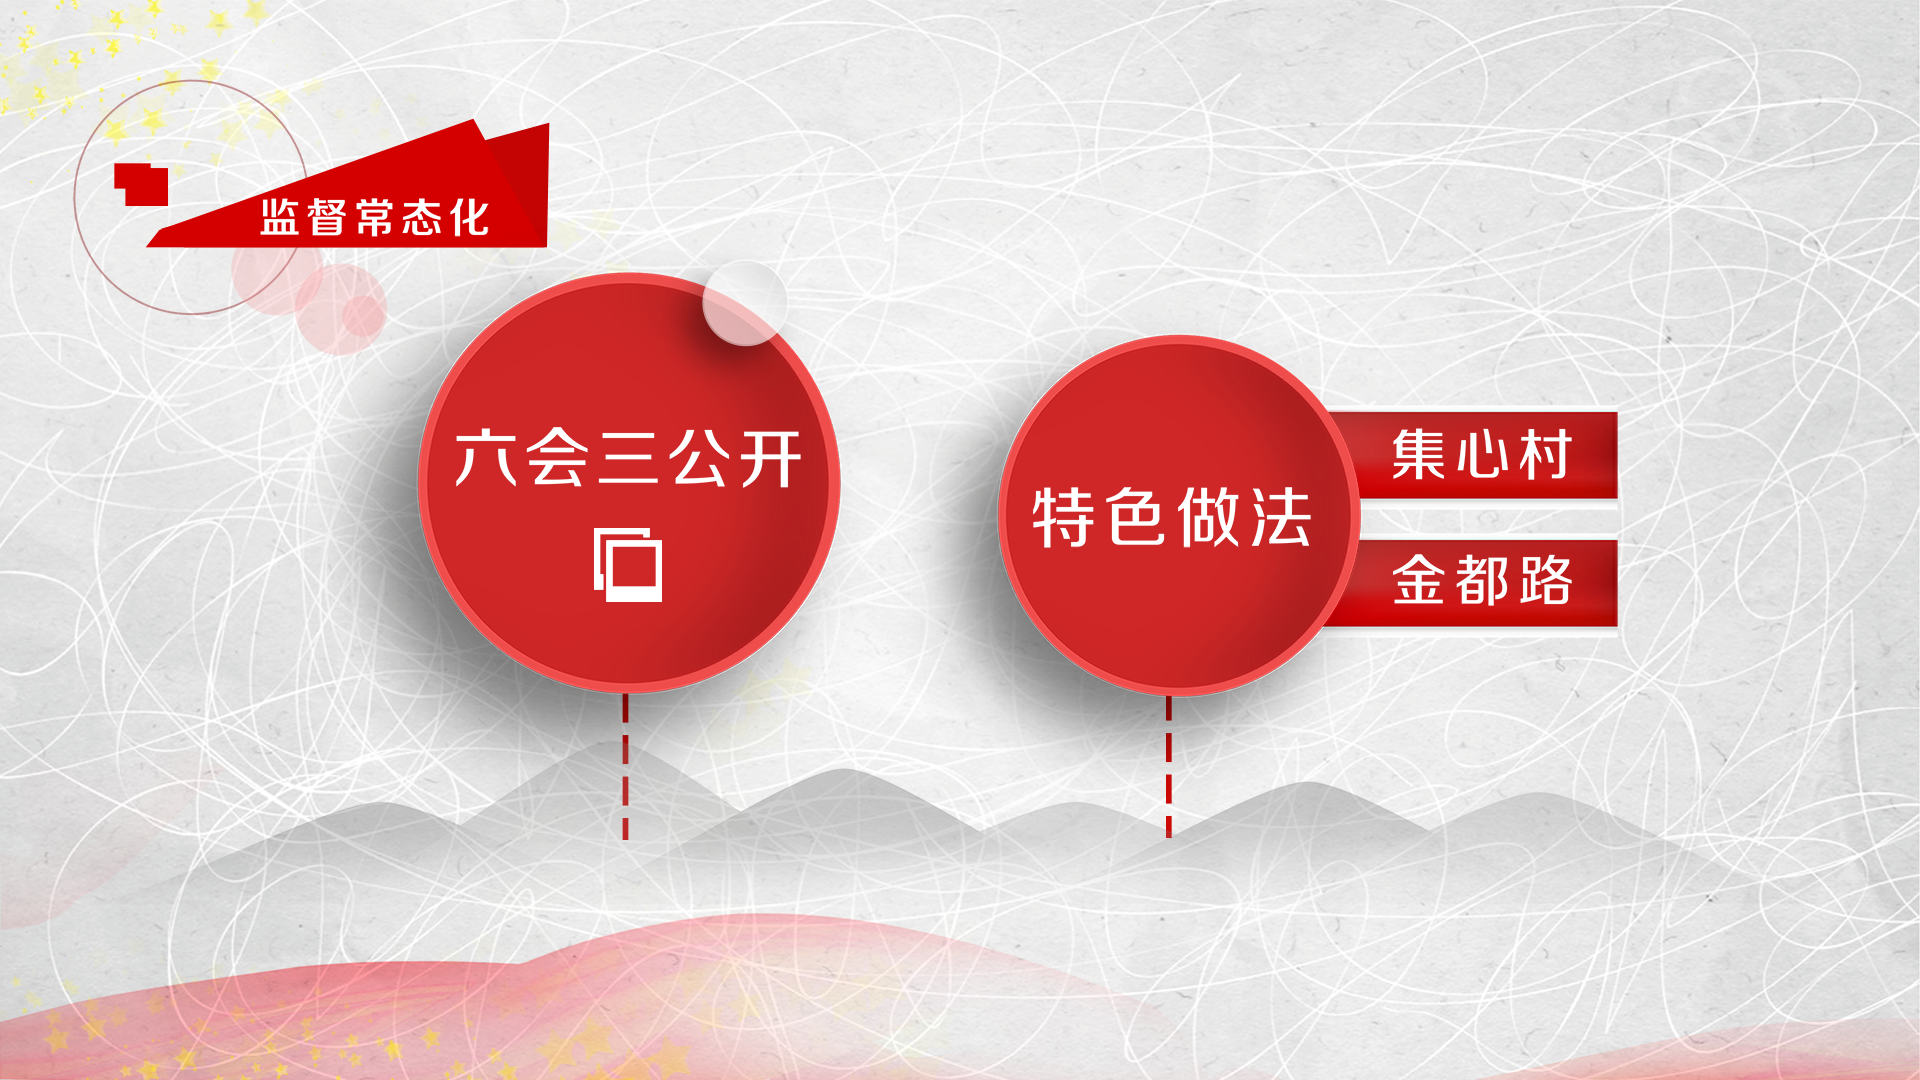
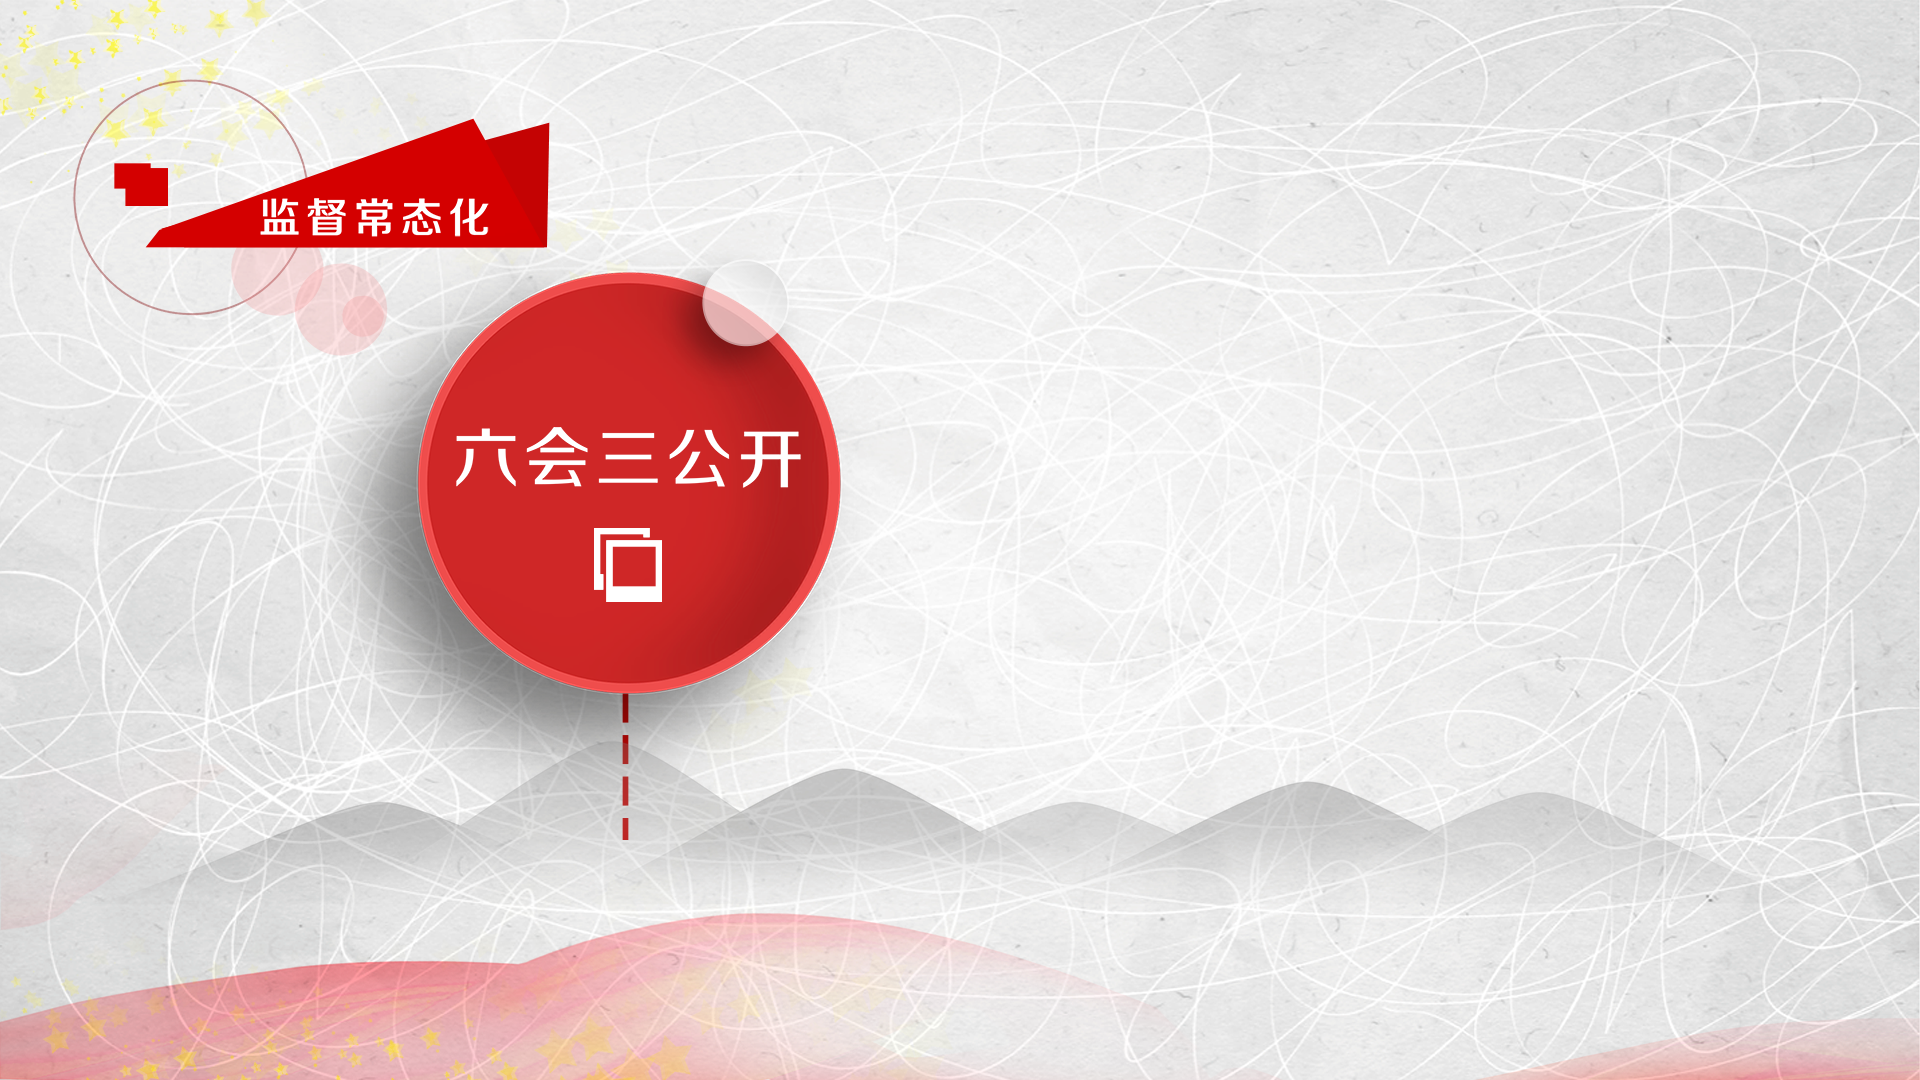
2016-10-11 13:53

Changed region(s): [[0.4688, 0.3056, 0.8438, 0.7028]]

diff --git a/src/components/3/1/Index.jsx b/src/components/3/1/Index.jsx
@@ -1,5 +1,7 @@
 import React, { Component } from 'react'
 import { withRouter } from 'react-router'
+import { Spin } from 'antd'
+import Helper from '../../../common/Helper'
 import styles from './Index.less'
 
 let self
@@ -10,16 +12,48 @@ class Detail extends Component {
     super(props)
 
     self = this
+
+    this.state = {
+      isLoad: false,
+      list: []
+    }
   }
 
   componentDidMount() {
+    this.load()
+  }
 
+  load = function() {
+    self.setState({
+      isLoad: true
+    })
+
+    Helper.ajax({
+      url: '/services/djlhsgkML',
+      data: {
+
+      },
+      success: function(data) {
+        self.setState({
+          list: data
+        })
+
+        if(data.length > 0) {
+          self.onClickMenu(data[0].id)
+        }
+      },
+      complete: function() {
+        self.setState({
+          isLoad: false
+        })
+      }
+    })
   }
 
   onClickMenu(index) {
     event.preventDefault()
 
-    //this.props.socket.emit('open', index)
+    this.props.socket.emit('open', index)
   }
 
   onClickBack() {
@@ -32,13 +66,37 @@ class Detail extends Component {
     self.props.router.goBack()
   }
 
+  onClickLeft() {
+    event.preventDefault()
+
+    this.props.socket.emit('up', '')
+  }
+
+  onClickRight() {
+    event.preventDefault()
+
+    this.props.socket.emit('down', '')
+  }
+
   render() {
     return (
-      <div className={styles.bg}>
-        <div className={styles.back} onClick={this.onClickBack.bind(this)}></div>
-        <div className={styles.menu_0} onClick={this.onClickMenu.bind(this, 0)}></div>
-        <div className={styles.menu_1} onClick={this.onClickMenu.bind(this, 1)}></div>
-      </div>
+      <Spin size="large" spinning={this.state.isLoad}>
+	      <div className={styles.bg}>
+	        <div className={styles.back} onClick={this.onClickBack.bind(this)}></div>
+          <div className={styles.list}>
+            {
+              this.state.list.map(function (item, index) {
+                return (
+                  <div key={index} className={styles.menu} onClick={this.onClickMenu.bind(this, item.id)}>{item.title}</div>
+                )
+              }.bind(this))
+            }
+          </div>
+	        <div className={styles.tese}></div>
+          <div className={styles.menu_0} onClick={this.onClickLeft.bind(this)}></div>
+          <div className={styles.menu_1} onClick={this.onClickRight.bind(this)}></div>
+	      </div>
+      </Spin>
     )
   }
 }

diff --git a/src/components/3/1/Index.less b/src/components/3/1/Index.less
@@ -4,20 +4,53 @@
     background-image: url("../../../assets/image/index_3_1_bg.png");
     background-repeat: no-repeat;
 }
+.list {
+    position: absolute;
+    top: 405px;
+    left: 1320px;
+    width: 341px;
+    height: 505px;
+}
+.menu {
+    width: 341px;
+    height: 105px;
+    line-height: 105px;
+    color: #ffffff;
+    font-size: 30px;
+    text-align: right;
+    padding-right: 20px;
+    margin-bottom: 23px;
+    background-image: url("../../../assets/image/index_3_1_menu.png");
+    background-repeat: no-repeat;
+    cursor: pointer;
+}
+.tese {
+    position: absolute;
+    top: 294px;
+    left: 877px;
+    width: 527px;
+    height: 546px;
+    background-image: url("../../../assets/image/index_3_1_tese.png");
+    background-repeat: no-repeat;
+}
 .menu_0 {
     position: absolute;
-    top: 412px;
-    left: 1362px;
-    width: 259px;
-    height: 87px;
+    top: 890px;
+    left: 1568px;
+    width: 78px;
+    height: 78px;
+    background-image: url("../../../assets/image/button_left.png");
+    background-repeat: no-repeat;
     cursor: pointer;
 }
 .menu_1 {
     position: absolute;
-    top: 540px;
-    left: 1362px;
-    width: 259px;
-    height: 87px;
+    top: 890px;
+    left: 1785px;
+    width: 78px;
+    height: 78px;
+    background-image: url("../../../assets/image/button_right.png");
+    background-repeat: no-repeat;
     cursor: pointer;
 }
 .back {
